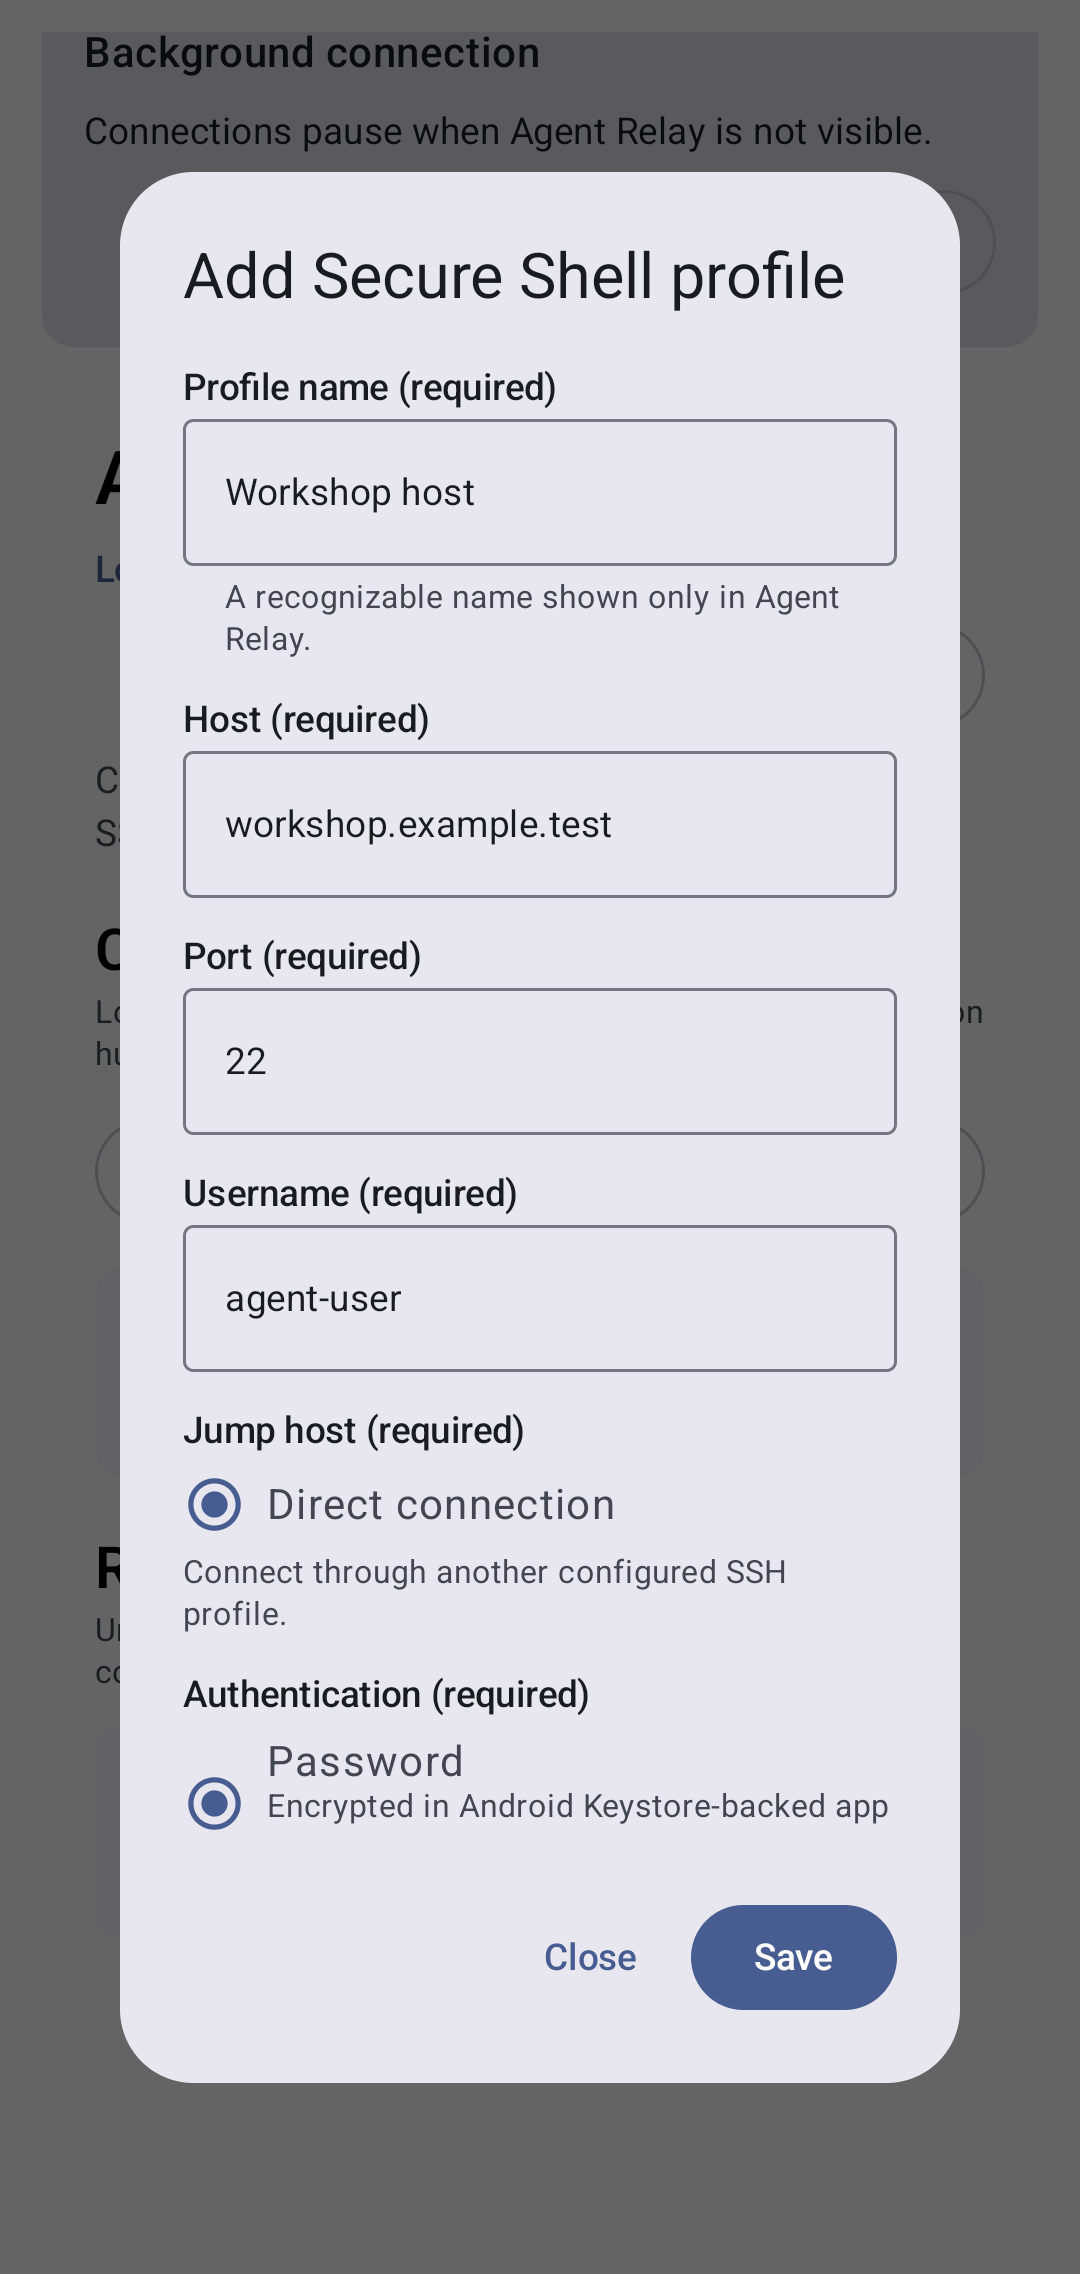
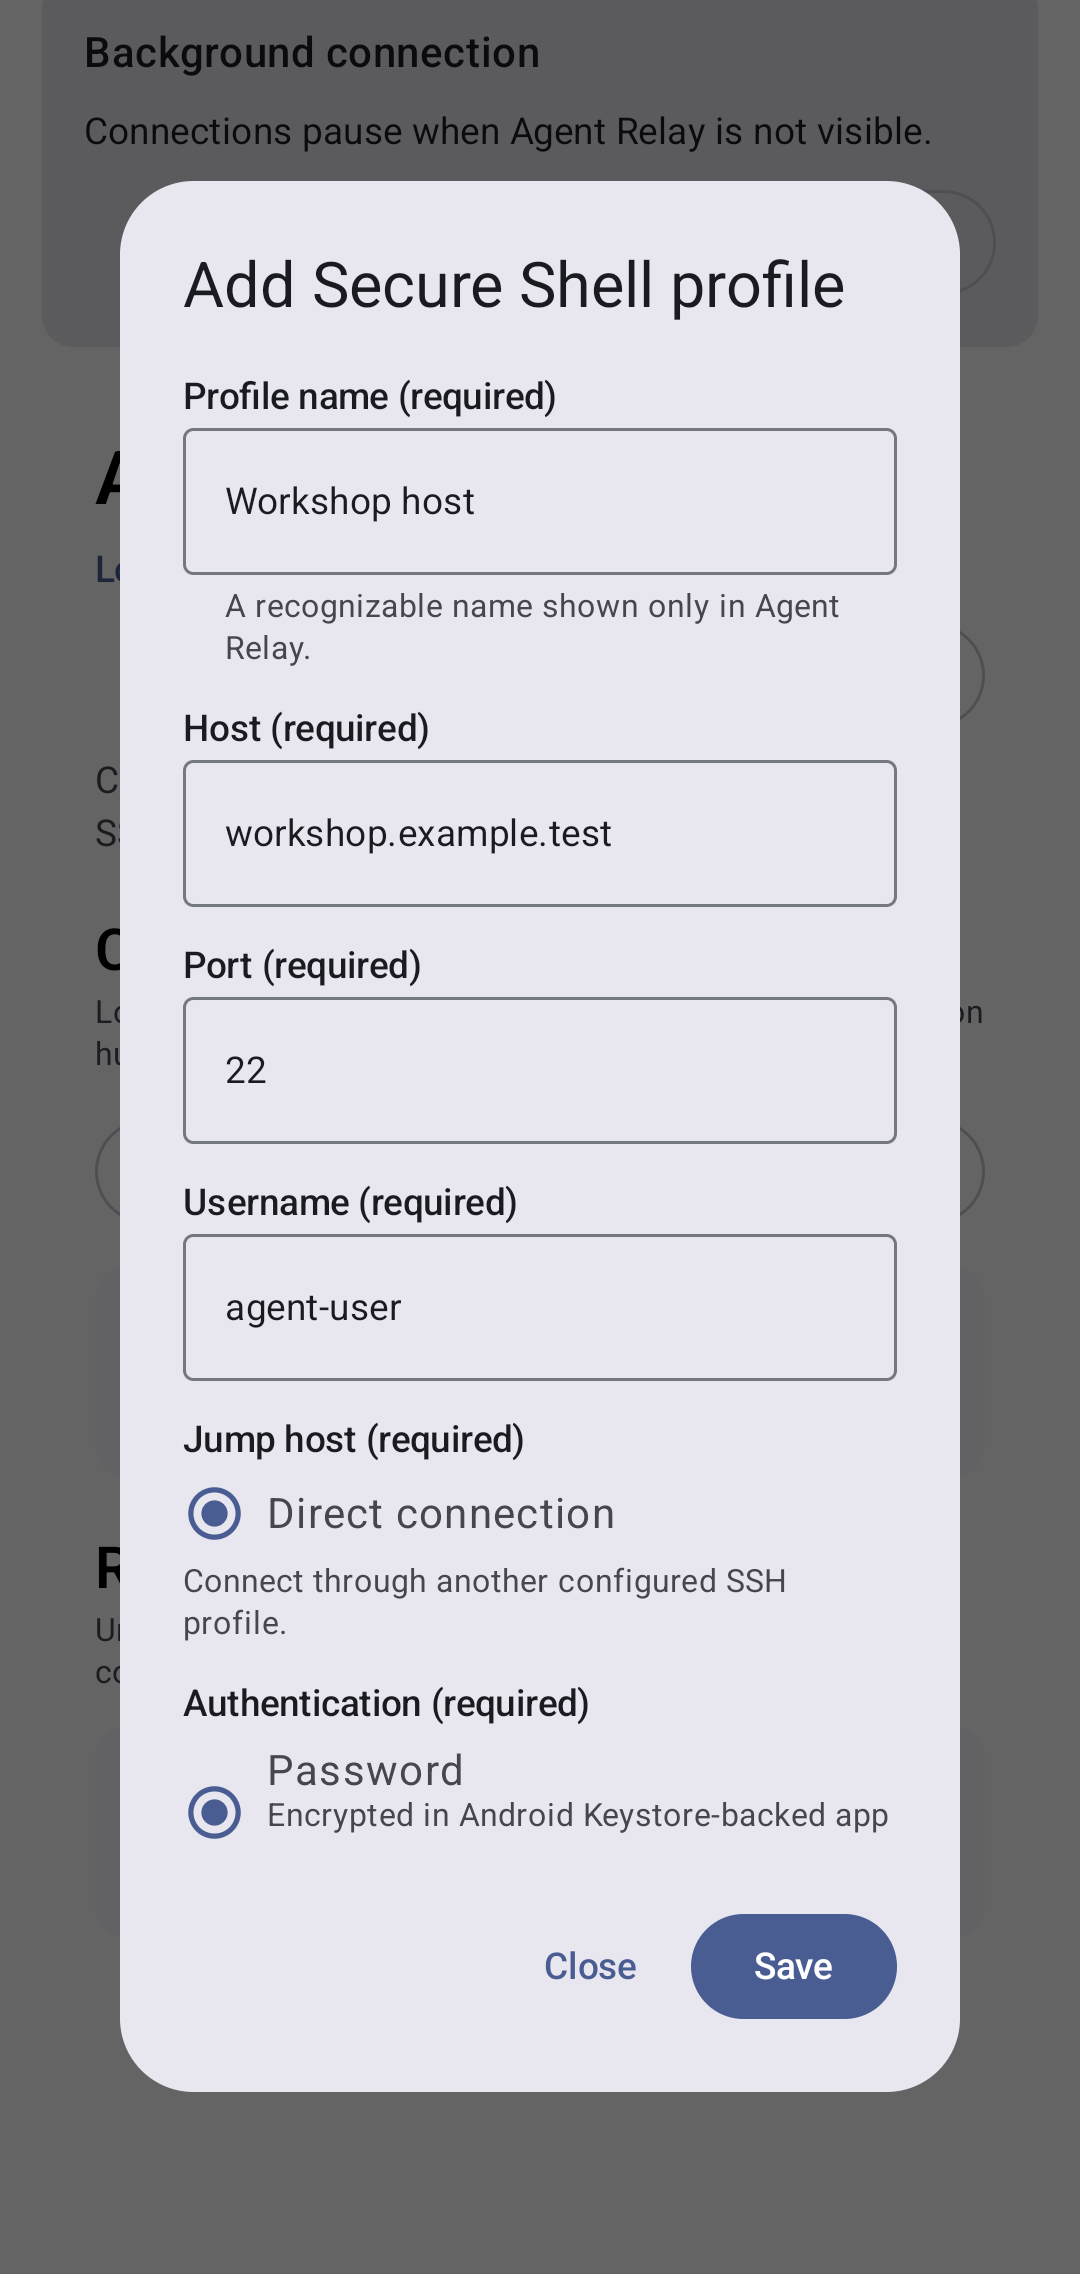
test: compare captures outside emulator chrome

diff --git a/app/src/androidTest/java/com/example/agentrelay/ui/main/UsageJourneyTest.kt b/app/src/androidTest/java/com/example/agentrelay/ui/main/UsageJourneyTest.kt
@@ -246,7 +246,6 @@ class UsageJourneyTest {
         val full = waitForRenderedScreenshot(crop)
         check(full.height > crop * 2)
         val image = Bitmap.createBitmap(full, 0, crop, full.width, full.height - crop * 2)
-        normalizeSystemBarResidue(image)
         val directory = File(captureRoot(), scenario)
         check(directory.mkdirs() || directory.isDirectory)
         FileOutputStream(File(directory, name)).use { stream ->
@@ -255,47 +254,6 @@ class UsageJourneyTest {
         image.recycle()
         full.recycle()
     }
-
-    private fun normalizeSystemBarResidue(image: Bitmap) {
-        val edge = minOf(32, image.height / 4)
-        val topColor = image.getPixel(0, edge)
-        val bottomColor = image.getPixel(0, image.height - edge - 1)
-        if (luminance(topColor) < 220 || hasDarkResidue(image, edge)) {
-            for (y in 0 until edge) {
-                for (x in 0 until image.width) image.setPixel(x, y, topColor)
-            }
-        }
-        val bottomResidueStart = findBottomResidueStart(image)
-        if (bottomResidueStart >= 0) {
-            for (y in bottomResidueStart until image.height) {
-                for (x in 0 until image.width) image.setPixel(x, y, bottomColor)
-            }
-        }
-    }
-
-    private fun hasDarkResidue(image: Bitmap, edge: Int): Boolean =
-        (0 until edge).any { y ->
-            (0 until image.width step 8).any { x -> luminance(image.getPixel(x, y)) < 200 }
-        }
-
-    private fun findBottomResidueStart(image: Bitmap): Int {
-        val center = image.width / 2
-        val edgeColor = image.getPixel(center, image.height - 1)
-        val lookback = minOf(128, image.height / 4)
-        return if (colorDistance(image.getPixel(center, image.height - lookback - 1), edgeColor) > 16) {
-            image.height - lookback
-        } else {
-            -1
-        }
-    }
-
-    private fun colorDistance(first: Int, second: Int): Int =
-        abs(Color.red(first) - Color.red(second)) +
-            abs(Color.green(first) - Color.green(second)) +
-            abs(Color.blue(first) - Color.blue(second))
-
-    private fun luminance(pixel: Int): Int =
-        (Color.red(pixel) * 299 + Color.green(pixel) * 587 + Color.blue(pixel) * 114) / 1_000
 
     private fun waitForRenderedScreenshot(crop: Int): Bitmap {
         var rendered: Bitmap? = null

diff --git a/scripts/docs/verify_workflows.py b/scripts/docs/verify_workflows.py
@@ -12,7 +12,7 @@ from dataclasses import asdict, dataclass
 from pathlib import Path
 from typing import Any, cast
 
-from PIL import Image, ImageChops, UnidentifiedImageError
+from PIL import Image, ImageChops, ImageDraw, UnidentifiedImageError
 from render_workflows import ROOT, ManifestError, load_scenarios
 
 ASSET_ROOT = ROOT / "docs" / "assets" / "workflows"
@@ -21,12 +21,10 @@ MAX_IMAGE_BYTES = 1_048_576
 MIN_WIDTH = 320
 MIN_HEIGHT = 480
 PIXEL_CHANNEL_TOLERANCE = 16
-# Keep a meaningful visual gate while allowing bounded API 36 emulator chrome
-# residue that is not part of the rendered application content.
-MAX_CHANGED_PIXEL_RATIO = 0.015
-# API 36's pinned emulator can leave bounded antialiasing/system-bar residue
-# while the changed-pixel ratio remains strict at 1%.
-MAX_RMS_DIFFERENCE = 8.0
+MAX_CHANGED_PIXEL_RATIO = 0.01
+MAX_RMS_DIFFERENCE = 4.0
+CHROME_TOP_PIXELS = 32
+CHROME_BOTTOM_LOOKBACK = 128
 
 
 @dataclass(frozen=True)
@@ -97,6 +95,20 @@ def difference_metrics(baseline: Path, captured: Path, diff_path: Path) -> tuple
                 f"{captured.relative_to(ROOT)}"
             )
         difference = ImageChops.difference(expected, actual)
+        draw = ImageDraw.Draw(difference)
+        draw.rectangle((0, 0, expected.width, min(CHROME_TOP_PIXELS, expected.height) - 1), fill=0)
+        center = expected.width // 2
+        bottom = expected.height - 1
+        lookback = min(CHROME_BOTTOM_LOOKBACK, expected.height // 4)
+        actual_edge = actual.getpixel((center, bottom))
+        actual_inner = actual.getpixel((center, bottom - lookback))
+        if (
+            sum(
+                abs(first - second) for first, second in zip(actual_edge, actual_inner, strict=True)
+            )
+            > 16
+        ):
+            draw.rectangle((0, expected.height - lookback, expected.width, bottom), fill=0)
         channels = difference.split()
         maximum = ImageChops.lighter(ImageChops.lighter(channels[0], channels[1]), channels[2])
         changed = sum(maximum.histogram()[PIXEL_CHANNEL_TOLERANCE + 1 :])

diff --git a/scripts/docs/test_workflows.py b/scripts/docs/test_workflows.py
@@ -79,8 +79,8 @@ class RenderWorkflowsTest(unittest.TestCase):
 
             ratio, rms = difference_metrics(expected, actual, diff)
 
-            self.assertLess(ratio, 0.015)
-            self.assertLess(rms, 8.0)
+            self.assertLess(ratio, 0.01)
+            self.assertLess(rms, 4.0)
             self.assertFalse(diff.exists())
 
     @settings(derandomize=True, deadline=None, max_examples=30)
